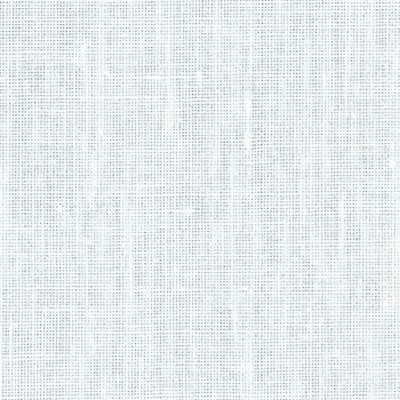
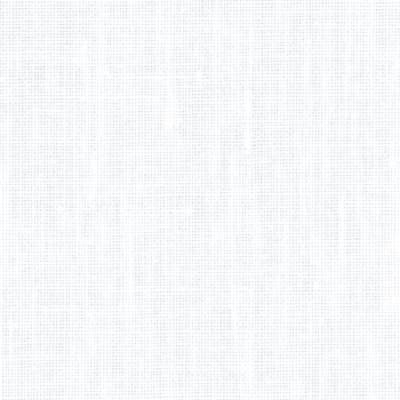
Optimise mobile responsive loading and readd new update cause of meeting

Changed region(s): [[0.0, 0.0, 1.0, 1.0]]

diff --git a/css/include/header.css b/css/include/header.css
@@ -4,9 +4,8 @@ header{
 
 header .background{
   height: 300px;
-  background-image: url(../../img/home1.jpg);
-  background-position: -210px -80px;
-  background-size: 800px;
+  background-image: url(../../img/home_mobile.jpg);
+  background-size: cover;
   padding: 2px;
   display: flex;
   flex-direction: column;
@@ -20,35 +19,18 @@ header .background{
 
 
 
-@media screen and (min-width: 480px) {
+@media screen and (min-width: 430px) and (orientation: portrait) {
   header .background{
-    height: 350px;
-    background-position: -180px -80px;
-    background-size: 900px
-  }
-
-  .btn-group .btn{
-    width: 40%
-  }
-
-  .btn-group{
-    padding: 25px 0px
-  }
-}
-
-@media screen and (min-width: 600px) {
-  header .background{
-    height: 380px;
-    background-position: -120px -50px;
-    background-size: 900px
+    height: 420px;
   }
 }
 
 @media screen and (min-width: 750px) {
   header .background{
+    background-image: url(../../img/home.jpg);
     height: 450px;
-    background-position: -60px 0px;
-    background-size: 935px
+    background-position: -80px 0px;
+    background-size: 980px
   }
 
   header h1, header h2{
@@ -66,24 +48,16 @@ header .background{
     transform: translate(0%, -50%)
   }
 
+  .btn-group .btn{
+    width: 30%
+  }
+
   header .btn-disabled{
     order: 1
   }
 }
 
-@media screen and (min-width: 860px) {
-  header .background{
-    height: 470px;
-    background-position: -40px 0px;
-    background-size: 980px
-  }
-
-  .btn-group .btn{
-    width: 30%
-  }
-}
-
-@media screen and (min-width: 950px) {
+@media screen and (min-width: 900px) {
   header .background{
     height: 500px;
     background-position: 0px 0px;
@@ -100,7 +74,6 @@ header .background{
 @media screen and (min-width: 1060px) {
   header .background{
     height: 600px;
-    background-position: 0px 0px;
     background-size: cover
   }
 

diff --git a/css/component.css b/css/component.css
@@ -287,7 +287,15 @@
     $RESPONSIVE
 \*------------------------------------*/
 
+@media screen and (min-width: 480px) and (orientation: portrait) {
+  .btn-group .btn{
+    width: 45%
+  }
 
+  .btn-group{
+    padding: 25px 0px
+  }
+}
 
 @media screen and (min-width: 750px) {
   .resp{
@@ -302,7 +310,7 @@
   }
 
   .follow{
-    height: 300px;
+    height: 250px;
     margin-bottom: 100px;
     width: 37.5%
   }

diff --git a/index.html b/index.html
@@ -31,7 +31,7 @@
   <svg class="svgDefs">
   <defs>
     <pattern id="pattern" patternUnits="userSpaceOnUse" height="100" width="100">
-      <image x="0" y="0" height="170" width="170" xlink:href="./img/patternPiece2.jpg"></image>
+      <image x="0" y="0" height="170" width="170" xlink:href="./img/patternPiece.jpg"></image>
     </pattern>
   </defs>
   </svg>

diff --git a/css/base.css b/css/base.css
@@ -21,6 +21,8 @@ html, body{
 
 main{
   overflow: hidden;
+  background-image: url(../img/background_mobile.jpg);
+  background-size: cover;
 }
 
 h1,h2{
@@ -84,6 +86,10 @@ svg{
 
 
 @media screen and (min-width: 750px) {
+  main{
+    background-image: url(../img/background.jpg);
+  }
+  
   p{
     font-family: 'Raleway', sans-serif;
     font-size: 22px;

diff --git a/css/main.css b/css/main.css
@@ -71,7 +71,7 @@
   }
 
   #babystep{
-    height: 500px
+    height: 320px
   }
 
   #babystep .content{
@@ -86,7 +86,7 @@
   }
 
   #move{
-    height: 600px
+    height: 500px
   }
 
   #move .piece-container{
@@ -105,7 +105,7 @@
   }
 
   #mecanic{
-    height: 650px
+    height: 500px
   }
 
   #mecanic .piece-container{
